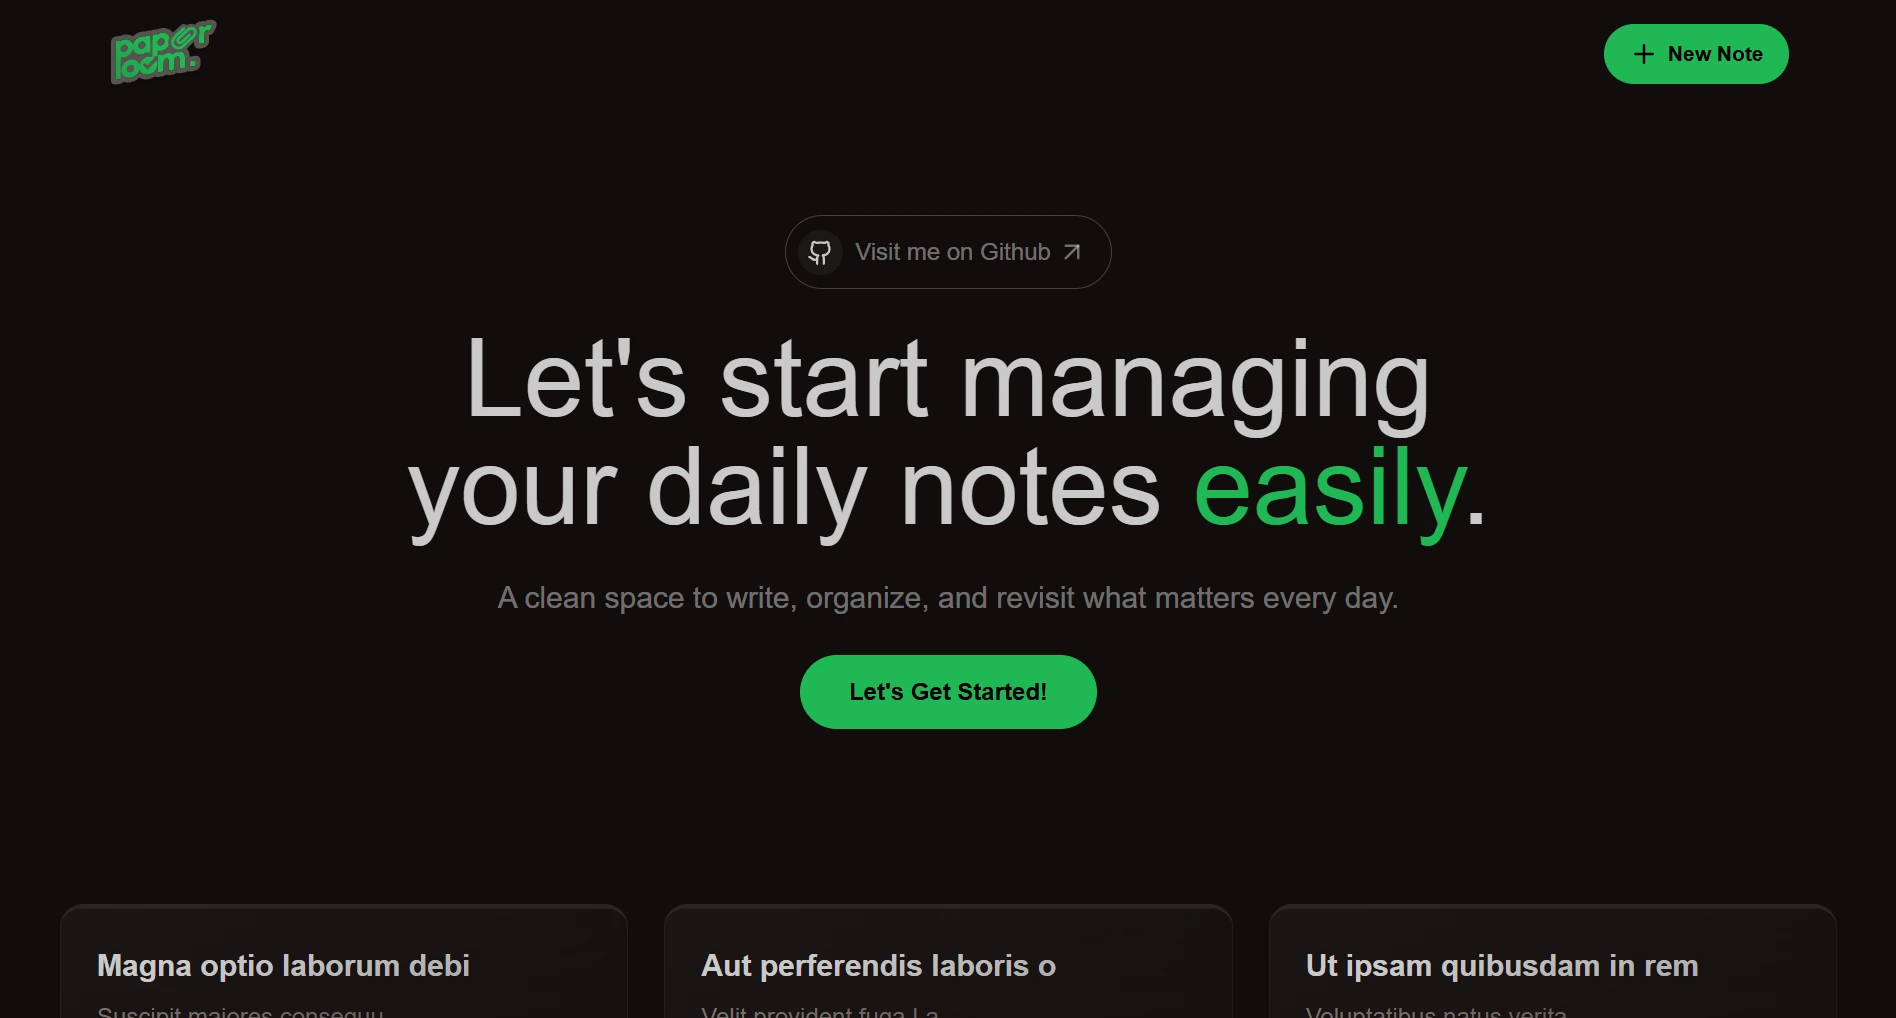
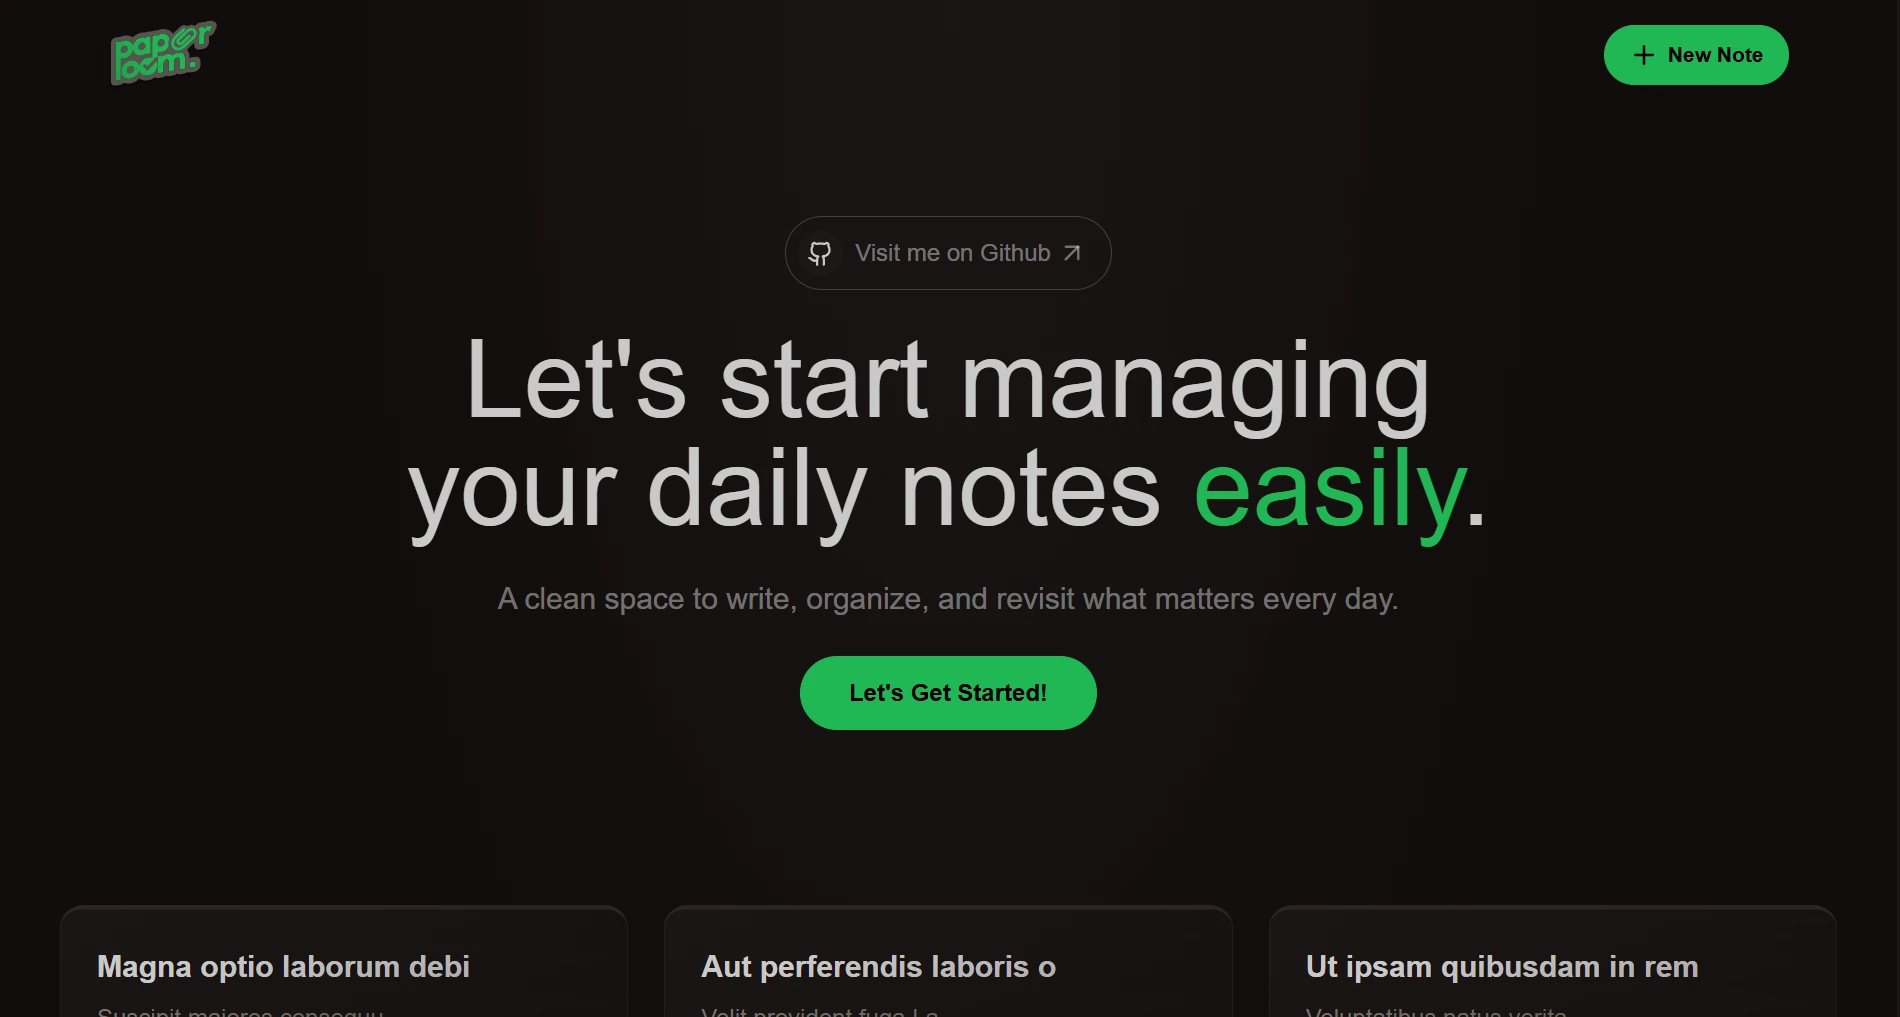
docs(preview): update to latest preview image
style: refine ratelimited and homepage style

diff --git a/frontend/src/pages/Homepage.jsx b/frontend/src/pages/Homepage.jsx
@@ -47,7 +47,7 @@ const Homepage = () => {
   }
 
   return (
-    <main className='min-h-screen px-3 md:px-10 pb-10'>
+    <main className='min-h-screen px-3 md:px-10 pb-10 bg-radial-[at_50%_0%] from-base-100/90 to-base-300 to-50%'>
       <Navbar />
 
       {isRateLimited && <RateLimitedUI />}
@@ -57,10 +57,10 @@ const Homepage = () => {
 
       {/* hero section */}
       <section className='hero-section text-center min-h-120 flex flex-col justify-center items-center gap-6'>
-        <div  className='group border border-stone-700  pl-2 pr-4 py-1 rounded-full cursor-pointer duration-200 hover:border-stone-400 hover:bg-stone-900 active:bg-stone-800'>
-          <Github className='inline size-4.5 mr-2 rounded-full bg-stone-900 p-1.5 box-content duration-200  group-hover:bg-stone-700/80' />
+        <div  className='label group border border-stone-700  pl-1.5 pr-2.5 py-0.5 rounded-full cursor-pointer duration-200 hover:border-stone-400 hover:bg-stone-800 active:bg-stone-700'>
+          <Github className='inline size-4.5 mr-0.5 rounded-full bg-stone-900 p-1.5 box-content duration-200  group-hover:bg-stone-700/80 group-hover:text-white/80' />
           <a href="https://github.com/zaki-ramadhan/paperloom?tab=readme-ov-file#readme-ov-file" target='_blank' className='btn btn-primary font-urbanist font-light text-base bg-transparent text-white/40 border-0 px-0 group-hover:text-white'>Visit me on Github</a>
-          <ArrowUpRight className='inline size-5 ml-1 text-white/40 duration-200 group-hover:text-white'/>
+          <ArrowUpRight className='inline size-5 ml-0.5 text-white/40 duration-200 group-hover:text-white'/>
         </div>
 
         <h1 className='text-7xl font-urbanist font-medium max-w-3xl'>Let's start managing your daily notes <span className='text-primary'>easily</span>.</h1>

diff --git a/frontend/src/components/RateLimitedUI.jsx b/frontend/src/components/RateLimitedUI.jsx
@@ -5,7 +5,7 @@ const RateLimitedUI = () => {
     <div className="wrapper fixed inset-0 z-20">
 
       {/* overlay */}
-      <div class="overlay absolute inset-0 bg-black/80 backdrop-blur-xs">
+      <div class="overlay absolute inset-0 bg-black/85 backdrop-blur-xs">
       </div>
 
       <div className="max-w-6xl mx-auto px-4 py-8 fixed top-1/2 left-1/2 -translate-1/2 z-30">
